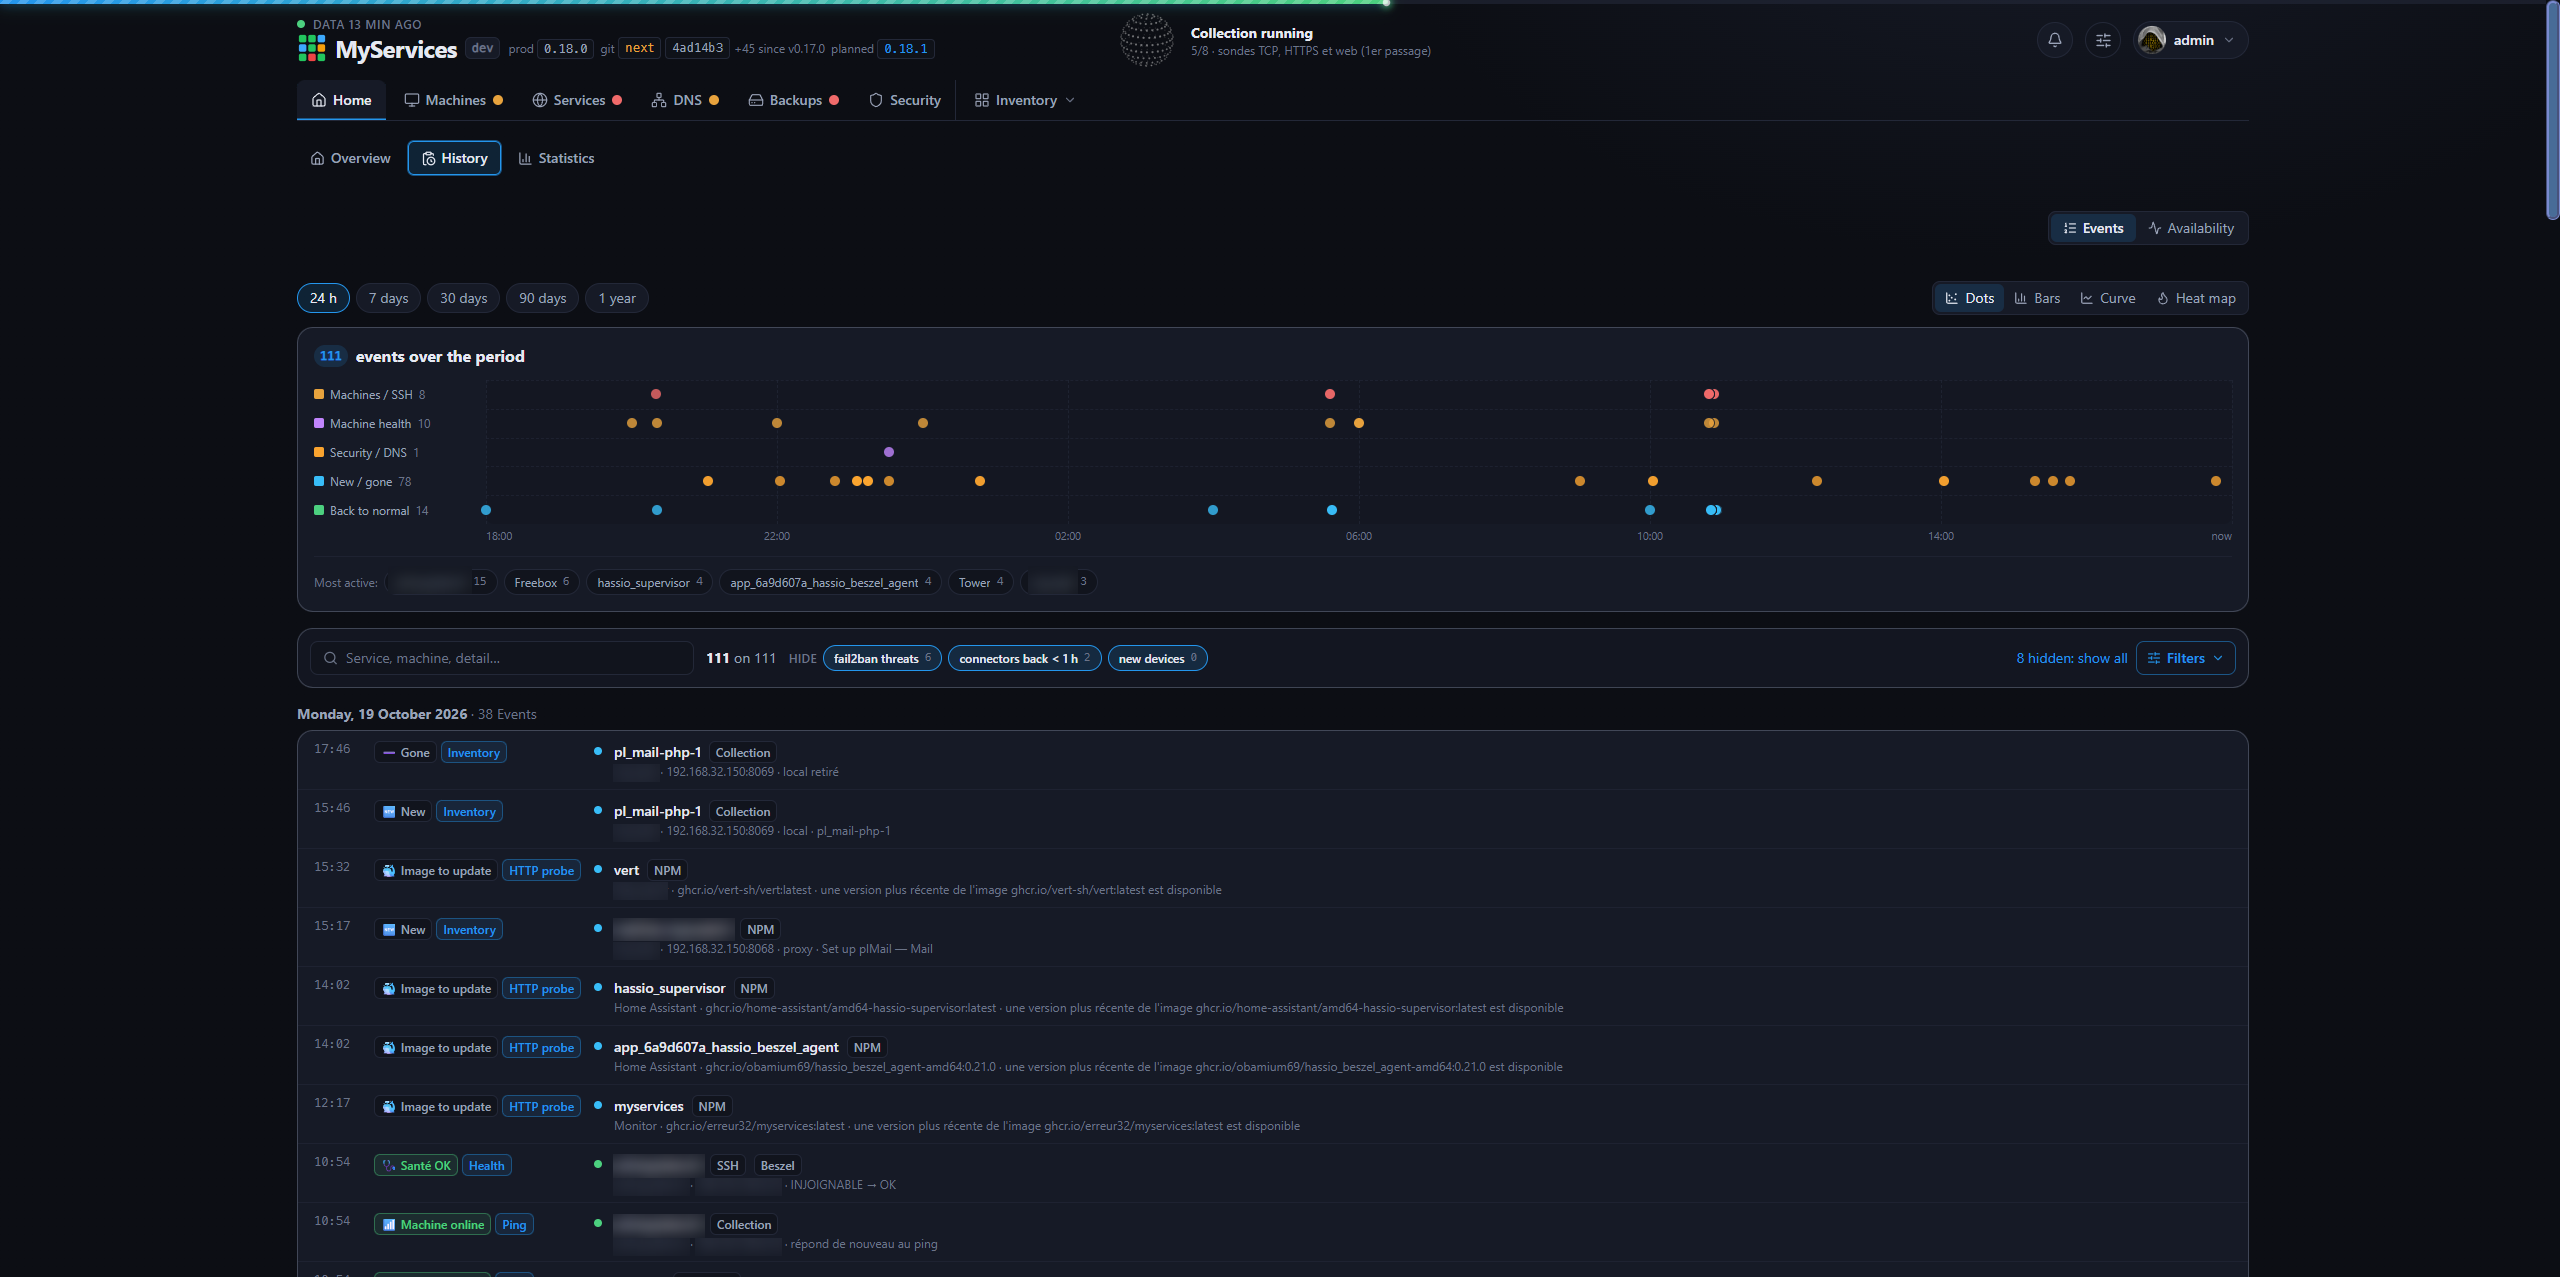
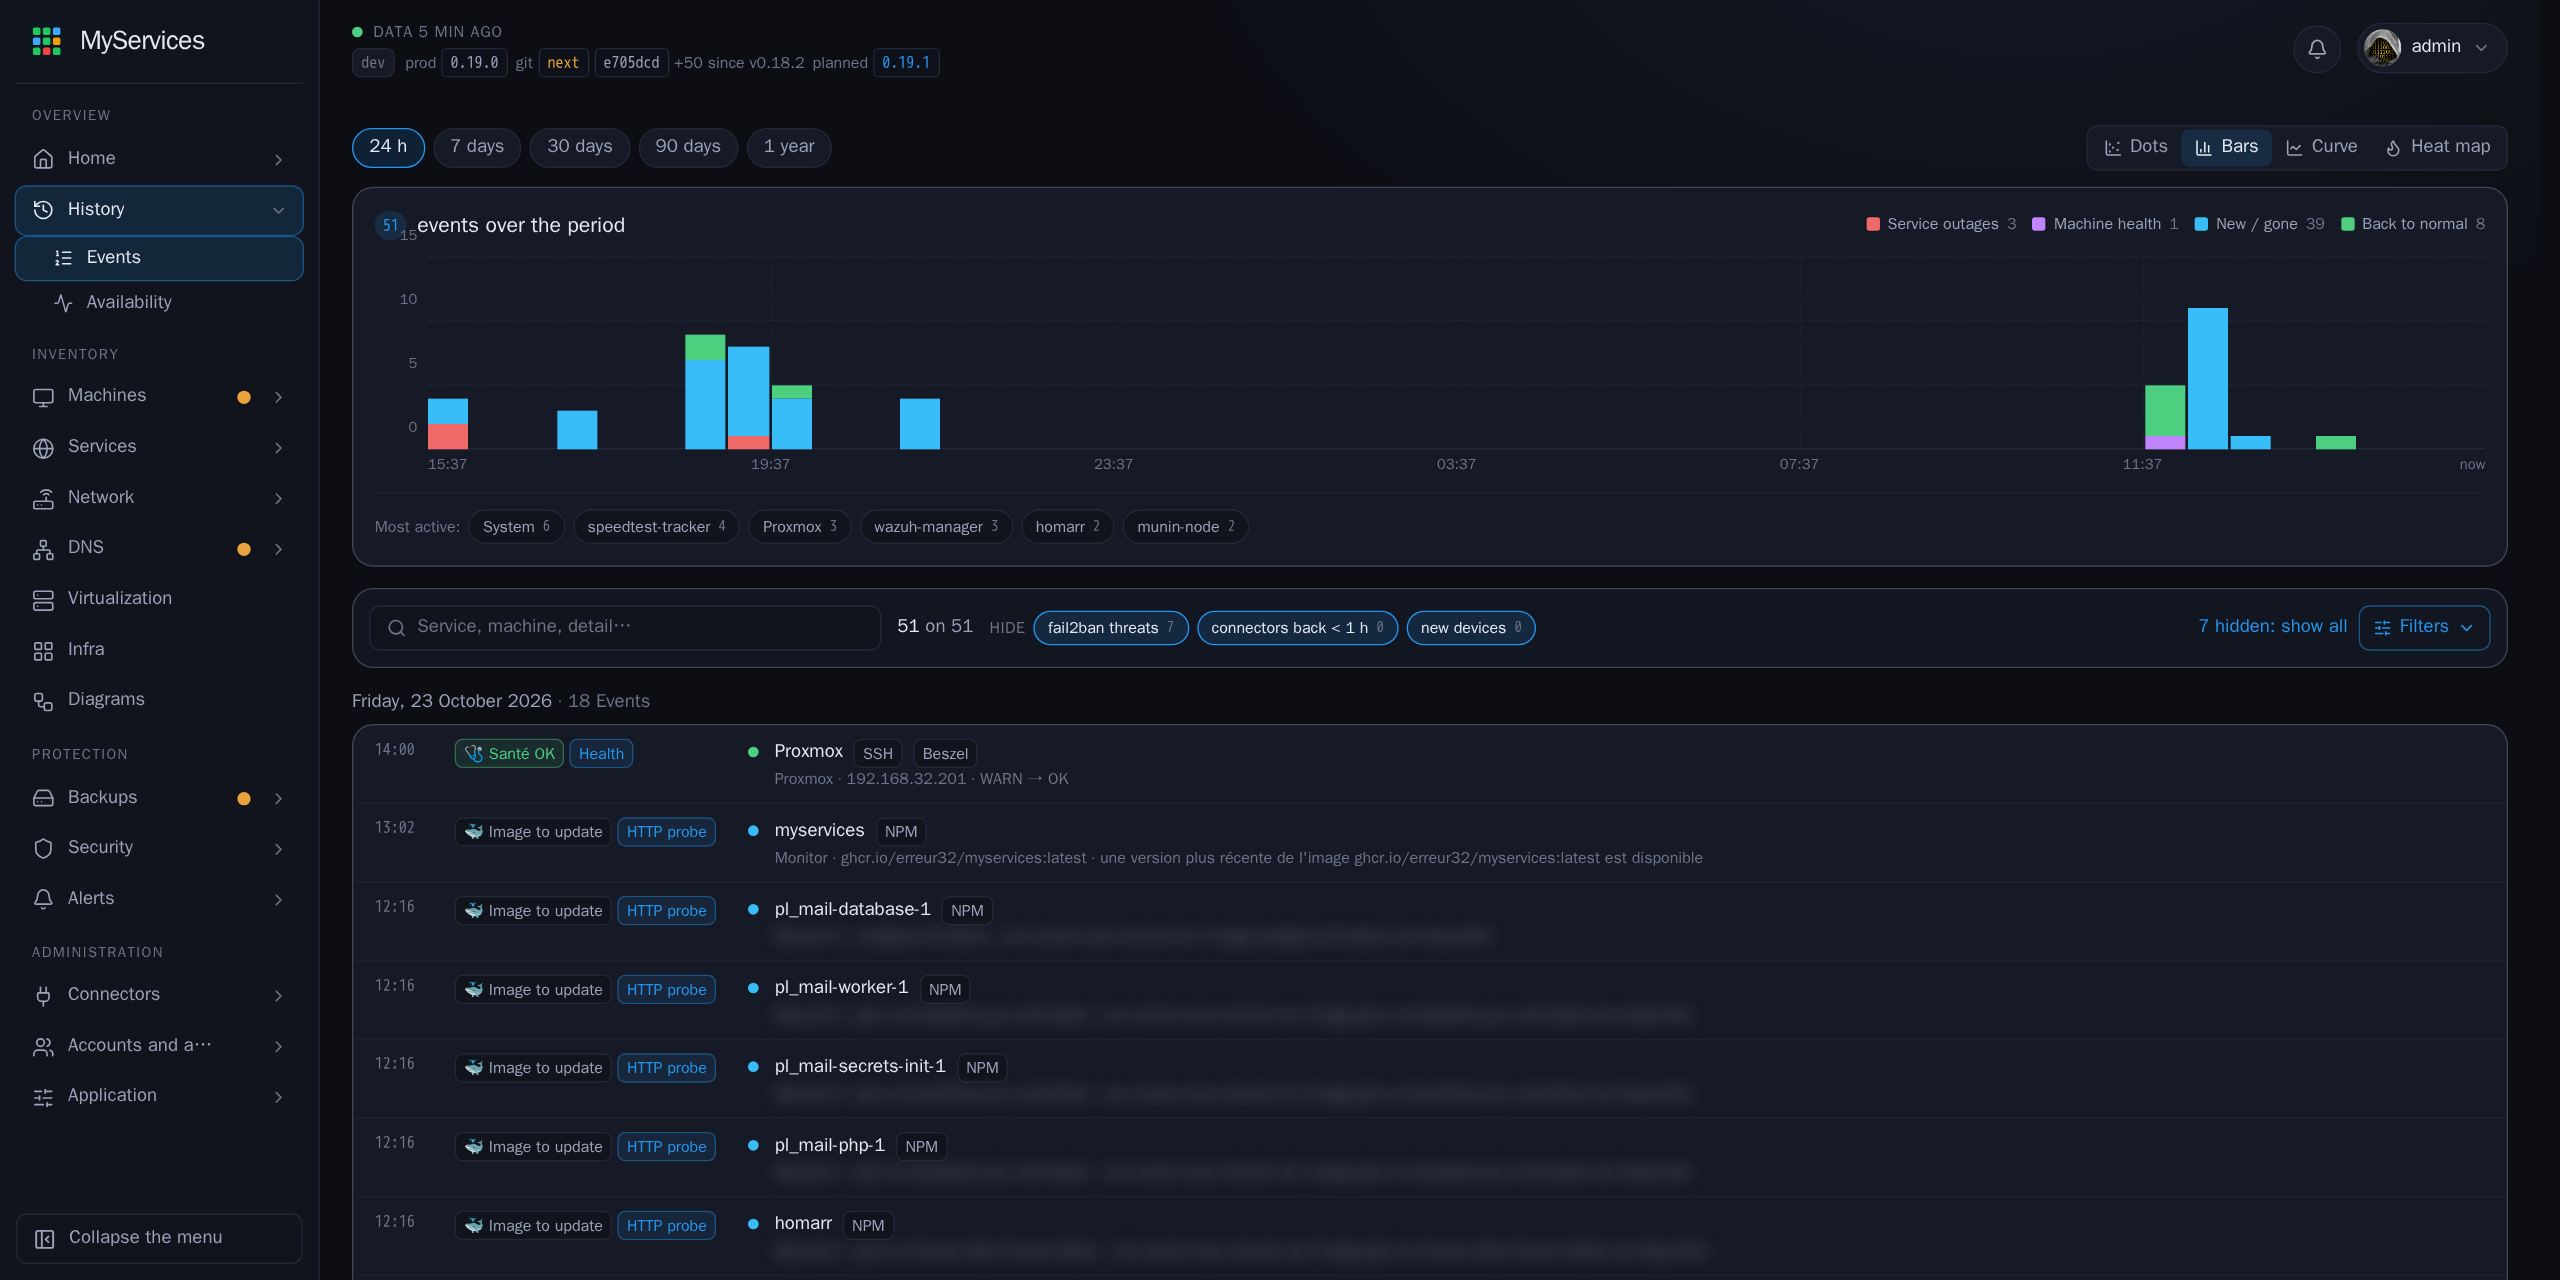
README: screenshots of the new navigation
All machines and History > Events with the side menu, in English, at
2560 px; domain names and the public address blurred (fingerprints in
scripts/images-relues.txt).

diff --git a/README.fr.md b/README.fr.md
@@ -23,13 +23,13 @@
 </p>
 
 <p align="center">
-  <img src="docs/screenshot-machines.png" alt="Onglet Machines de MyServices : chaque machine avec ses sources, son système, ses services, sa santé, CPU, mémoire, disque, GPU et uptime (noms de domaine et adresse publique floutés)" width="900"><br>
-  <sub>L'onglet Machines : toutes les machines du réseau d'un coup d'œil, quel que soit l'outil qui les lit (noms de domaine et adresse publique floutés).</sub>
+  <img src="docs/screenshot-machines.png" alt="Page « Toutes les machines » de MyServices, avec le menu de gauche : chaque machine avec ses sources, son système, ses services, sa santé, CPU, mémoire, disque, GPU et uptime (noms de domaine et adresse publique floutés)" width="900"><br>
+  <sub>Machines › Toutes les machines : toutes les machines du réseau d'un coup d'œil, quel que soit l'outil qui les lit (noms de domaine et adresse publique floutés).</sub>
 </p>
 
 <p align="center">
-  <img src="docs/screenshot-history.png" alt="Onglet Historique de MyServices : les événements sur 24 h (noms de domaine et adresse publique floutés)" width="900"><br>
-  <sub>L'onglet Historique : ce qui est tombé, revenu, apparu ou disparu (noms de domaine et adresse publique floutés).</sub>
+  <img src="docs/screenshot-history.png" alt="Page Historique › Événements de MyServices : les événements sur 24 h (noms de domaine et adresse publique floutés)" width="900"><br>
+  <sub>Historique › Événements : ce qui est tombé, revenu, apparu ou disparu (noms de domaine et adresse publique floutés).</sub>
 </p>
 
 > ## Encore en développement

diff --git a/README.md b/README.md
@@ -23,13 +23,13 @@
 </p>
 
 <p align="center">
-  <img src="docs/screenshot-machines.png" alt="MyServices machines tab: every machine with its sources, system, services, health, CPU, memory, disk, GPU and uptime (domain names and public address blurred)" width="900"><br>
-  <sub>The machines tab: every machine of the network at a glance, whatever tool reads it (domain names and public address blurred).</sub>
+  <img src="docs/screenshot-machines.png" alt="MyServices, All machines page with the side menu: every machine with its sources, system, services, health, CPU, memory, disk, GPU and uptime (domain names and public address blurred)" width="900"><br>
+  <sub>Machines › All machines: every machine of the network at a glance, whatever tool reads it (domain names and public address blurred).</sub>
 </p>
 
 <p align="center">
-  <img src="docs/screenshot-history.png" alt="MyServices history tab: events over 24 hours (domain names and public address blurred)" width="900"><br>
-  <sub>The history tab: what fell, came back, appeared or disappeared (domain names and public address blurred).</sub>
+  <img src="docs/screenshot-history.png" alt="MyServices, History › Events page: events over 24 hours (domain names and public address blurred)" width="900"><br>
+  <sub>History › Events: what fell, came back, appeared or disappeared (domain names and public address blurred).</sub>
 </p>
 
 > ## Still in development
